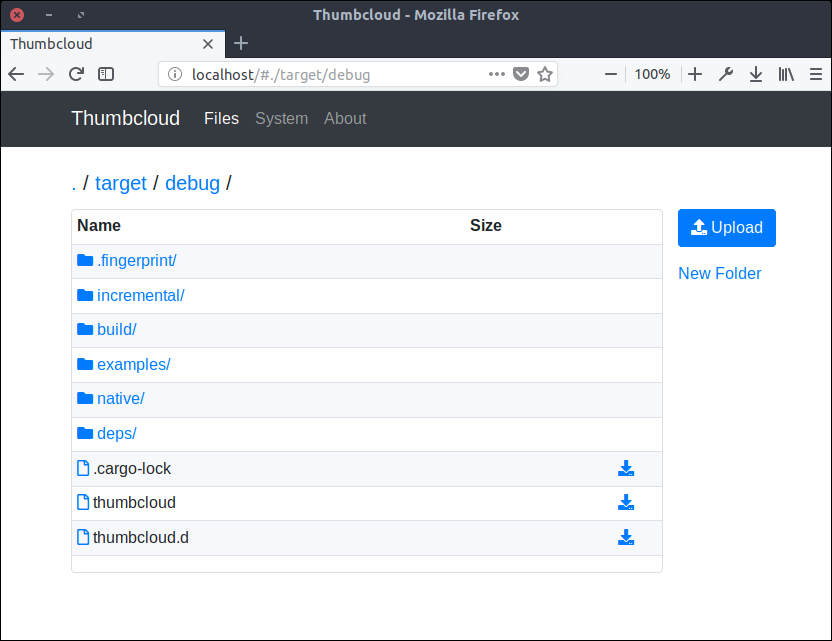
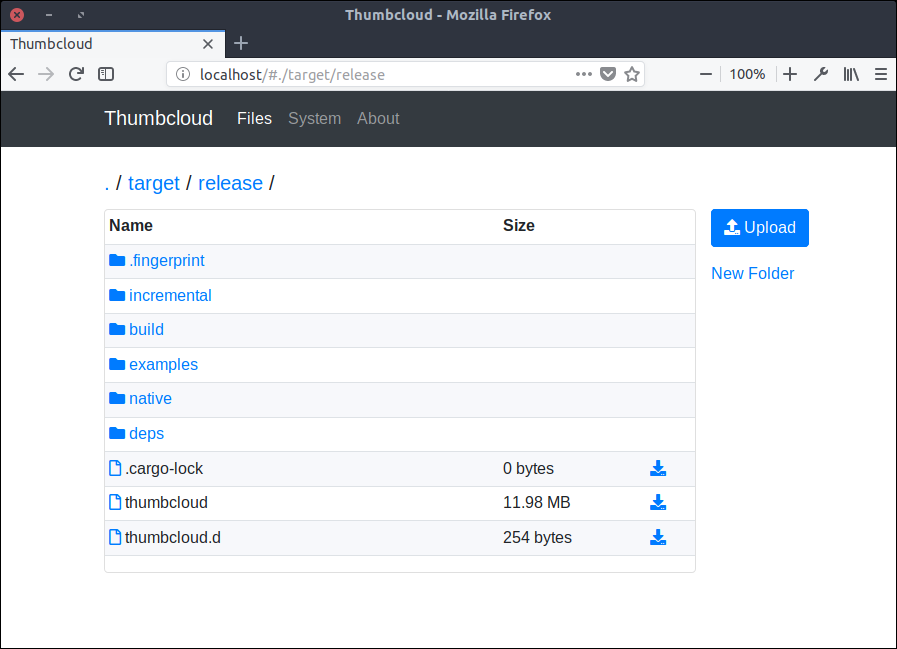
:tada: Added support for filesize

diff --git a/static/js/index.js b/static/js/index.js
@@ -82,7 +82,7 @@ function renderFiles(path, folders, files) {
 
     // Render folders
     for (i = 0; i < folders.length; i++) {
-        var name = folders[i];
+        var name = folders[i].name;
         var nameHTML = '<i style="color: #007bff" class="fas fa-folder"></i>';
         nameHTML += ' <a href="#' + path + name + '" >' + name + "</a>";
         output += renderRow(nameHTML, '', '');
@@ -91,10 +91,11 @@ function renderFiles(path, folders, files) {
     // Render files
     for (i = 0; i < files.length; i++) {
         var nameHTML = '<i style="color: #007bff" class="far fa-file"></i>';
-        nameHTML += ' ' + files[i]; 
+        nameHTML += ' ' + files[i].name; 
+        var size = files[i].size;
         var downloadHref = path + files[i];
         var downloadLink = '<a target=”_blank” href="download/' + downloadHref + '"><i class="fas fa-download"></i></a>';
-        output += renderRow(nameHTML, '', downloadLink);
+        output += renderRow(nameHTML, size, downloadLink);
     }
 
     contentElement.innerHTML = output;

diff --git a/src/files.rs b/src/files.rs
@@ -1,13 +1,36 @@
+use pretty_bytes::converter::convert;
 use serde_json;
 use std::fs;
 use std::path::PathBuf;
 
 #[derive(Serialize, Deserialize)]
+struct FileItem {
+    name: String,
+    size: String,
+}
+
+impl FileItem {
+    fn from(file_name: String, bytes: u64) -> FileItem {
+        FileItem {
+            name: file_name,
+            size: convert(bytes as f64).replace(" B", " bytes"),
+        }
+    }
+
+    fn from_name(file_name: String) -> FileItem {
+        FileItem {
+            name: file_name,
+            size: String::new(),
+        }
+    }
+}
+
+#[derive(Serialize, Deserialize)]
 struct FileRespond {
     action: String,
     path: String,
-    folders: Vec<String>,
-    files: Vec<String>,
+    folders: Vec<FileItem>,
+    files: Vec<FileItem>,
 }
 
 impl FileRespond {
@@ -40,9 +63,17 @@ pub fn get_file_respond(path: PathBuf) -> String {
             if let Ok(file_type) = entry.file_type() {
                 if let Ok(file_name) = entry.file_name().into_string() {
                     if file_type.is_dir() {
-                        respond.folders.push(file_name);
+                        respond.folders.push(FileItem::from_name(file_name));
                     } else {
-                        respond.files.push(file_name);
+                        let item: FileItem;
+
+                        if let Ok(meta) = entry.metadata() {
+                            item = FileItem::from(file_name, meta.len())
+                        } else {
+                            item = FileItem::from_name(file_name);
+                        }
+
+                        respond.files.push(item);
                     }
                 }
             }

diff --git a/src/main.rs b/src/main.rs
@@ -4,6 +4,7 @@ extern crate actix_web;
 #[macro_use]
 extern crate clap;
 extern crate futures;
+extern crate pretty_bytes;
 extern crate serde;
 
 #[macro_use]

diff --git a/README.md b/README.md
@@ -26,7 +26,7 @@ Feel free ignore those warnings.
 ### v0.0.2
 - [X] Download files from the webbrowser
 - [X] "fancy" aka useable Web UI
-- [ ] Show filesize
+- [X] Show filesize
 - [X] About page
 - [ ] Only allow access to one directory
 - [ ] Parse commandline arguments
